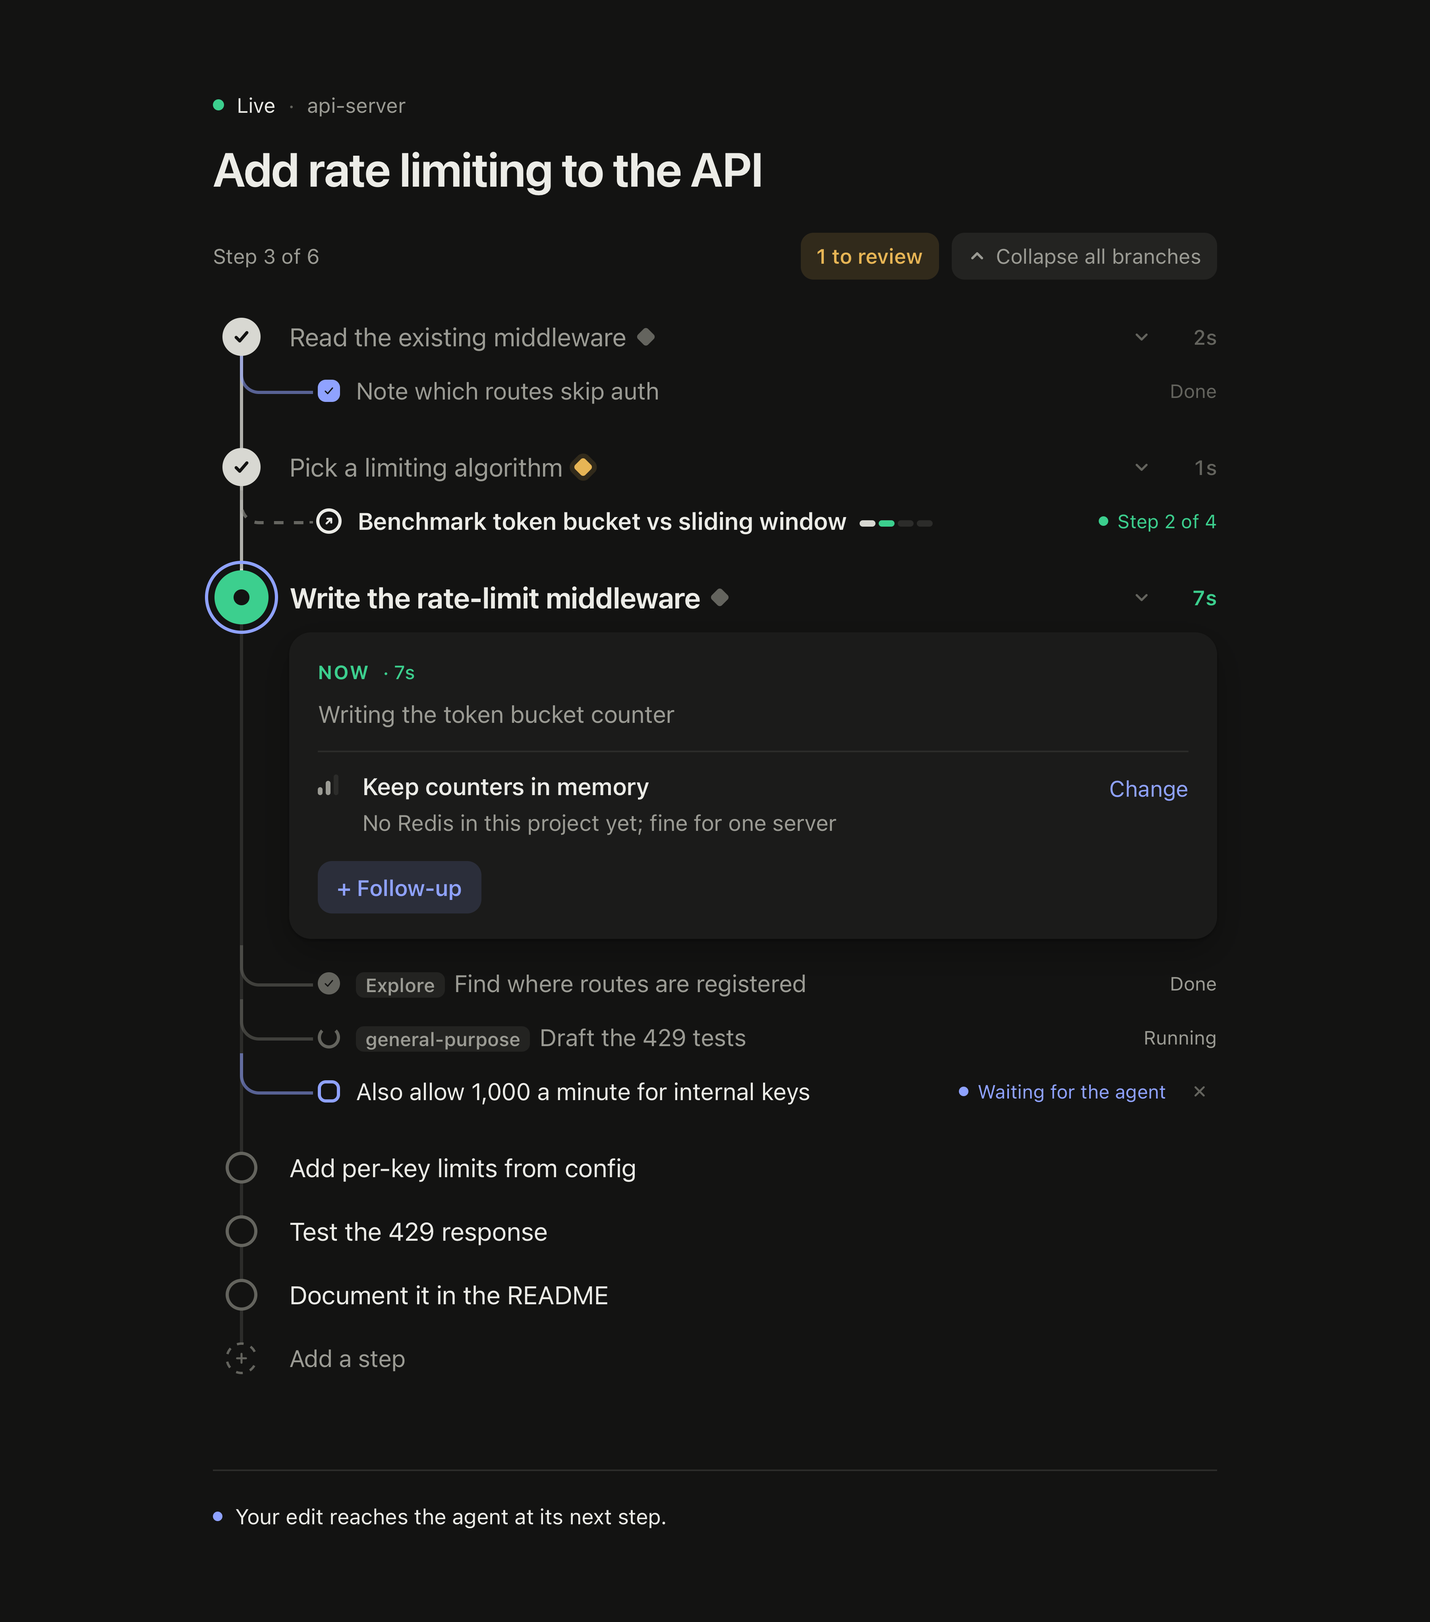
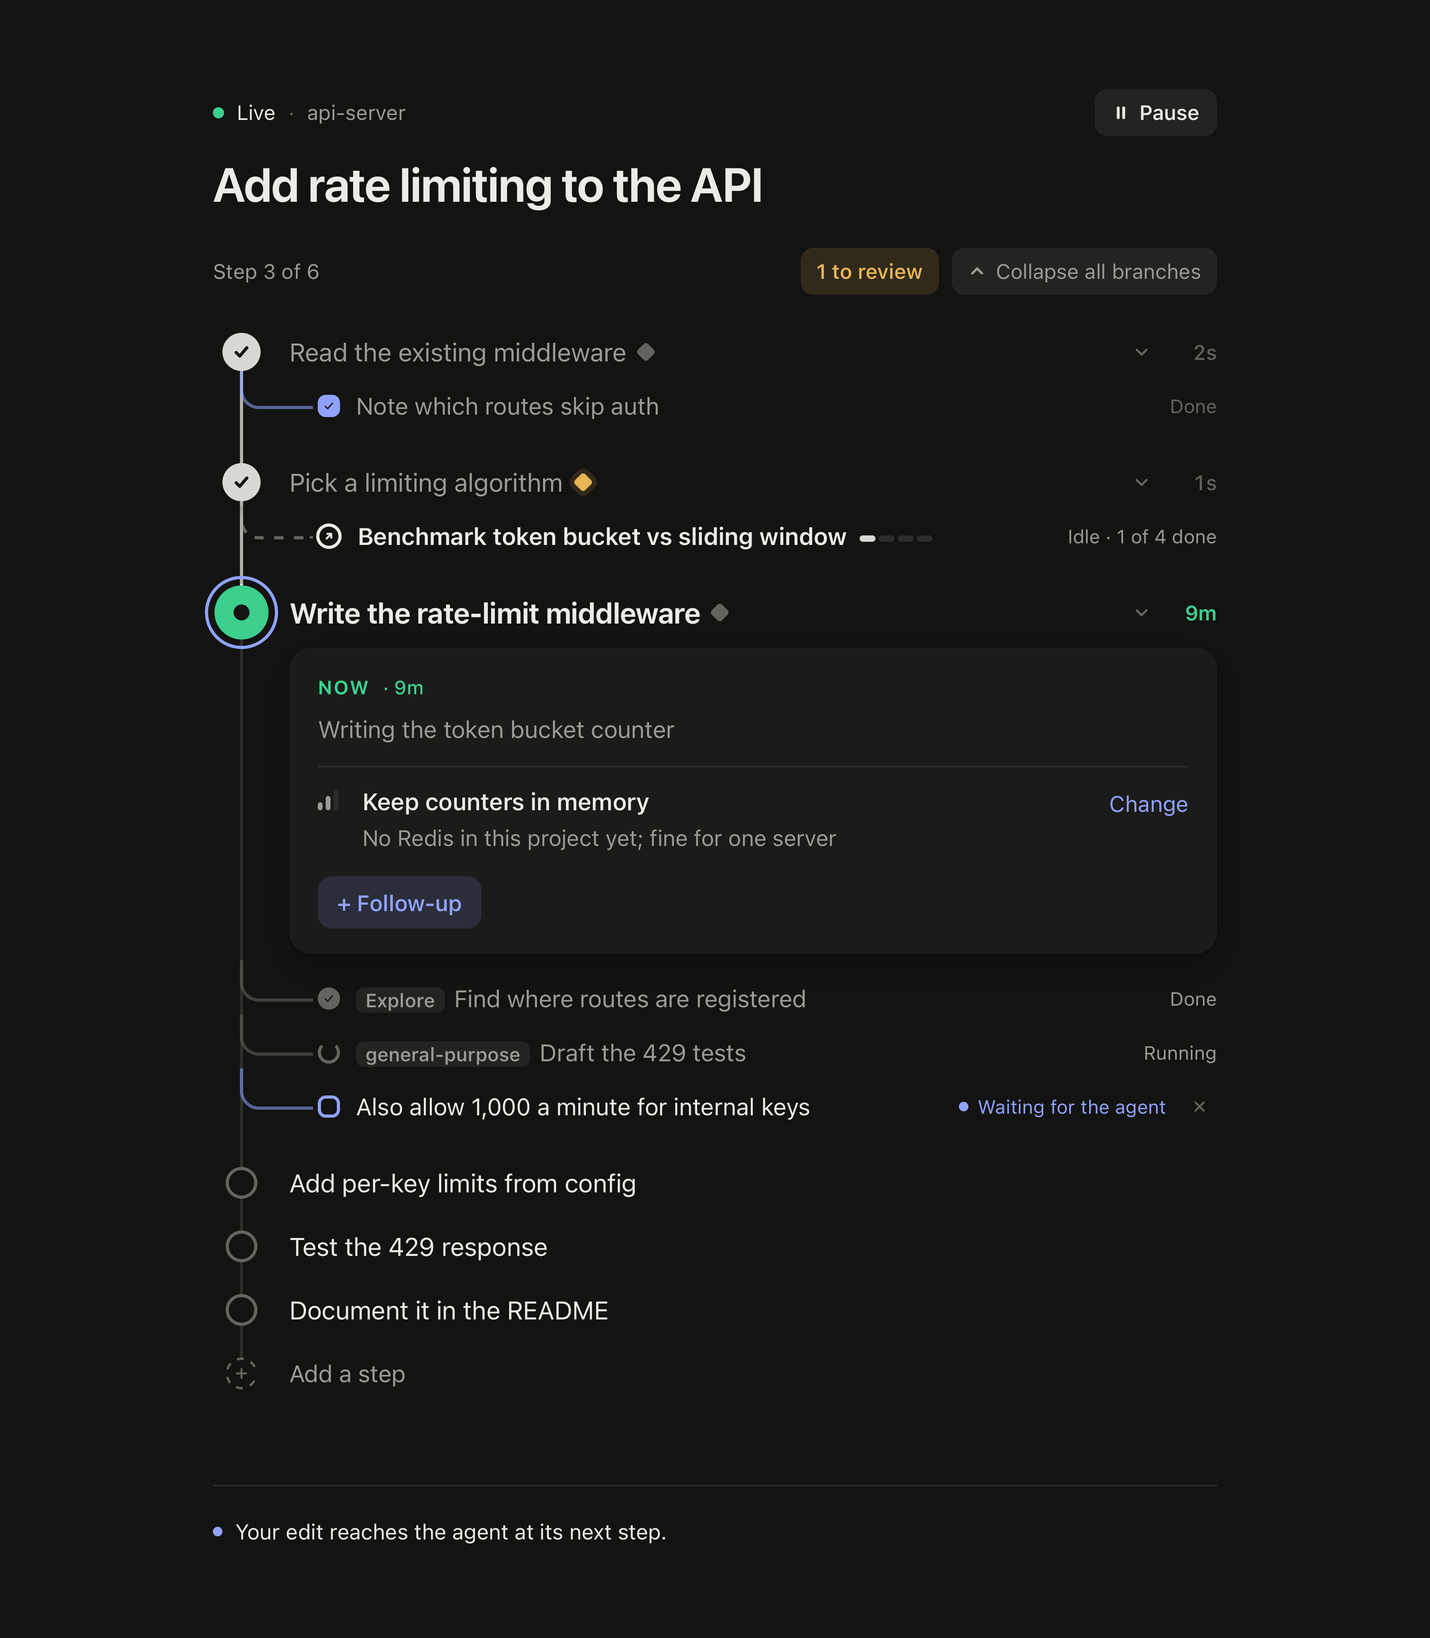
Add Pause and Resume to the status page
Pause tells the agent to stop at its next step and blocks its tools
(a PreToolUse gate that only checks a local file). While paused, edits
wait. Resume wakes the stopped agent through the existing Stop-hook
wait, with any edits made meanwhile. Typing to Claude also lifts a
pause.

diff --git a/src/page.html b/src/page.html
@@ -52,6 +52,16 @@ main svg { width: 16px; height: 16px; flex: none; }
 .live .dot::after { content: ""; position: absolute; inset: -4px; border-radius: 50%; border: 1.5px solid var(--live); opacity: 0; animation: ring 2.4s ease-out infinite; }
 .live .state { color: var(--text); }
 .sep { color: var(--faint); }
+.paused .dot { background: var(--review-mark); }
+.paused .state { color: var(--text); }
+.pausing .dot { background: var(--review-mark); animation: breathe 1.6s ease-in-out infinite; }
+.pausebtn { margin-left: auto; display: inline-flex; align-items: center; gap: 6px; padding: 5px 11px; border-radius: 8px; background: var(--chip); color: var(--text); font-size: 13px; font-weight: 550; }
+.pausebtn:hover { background: var(--hover); }
+.pausebtn svg { width: 11px; height: 11px; }
+.pausebtn.resume { background: var(--accent); color: #fff; }
+.pausebtn.resume:hover { background: var(--accent); filter: brightness(1.08); }
+:root[data-theme="dark"] .pausebtn.resume { color: #10131f; }
+@media (prefers-color-scheme: dark) { :root:not([data-theme="light"]) .pausebtn.resume { color: #10131f; } }
 .parent { display: inline-flex; align-items: center; gap: 6px; color: var(--muted); font-size: 13px; margin-bottom: 10px; }
 .parent:hover { color: var(--text); }
 .parent svg { width: 12px; height: 12px; }
@@ -98,6 +108,7 @@ h1 { margin: 12px 0 0; font-size: 30px; line-height: 1.2; font-weight: 640; lett
 .vend { margin-left: auto; display: flex; align-items: center; gap: 6px; flex: none; }
 .vtime { color: var(--live); font-size: 13px; font-weight: 600; min-width: 28px; text-align: right; font-variant-numeric: tabular-nums; }
 .vtime.dim { color: var(--faint); font-weight: 500; }
+.vtime.held, .kicker.now.held { color: var(--review); }
 .icon { width: 28px; height: 28px; display: grid; place-items: center; border-radius: 8px; color: var(--faint); touch-action: none; }
 .icon:hover { color: var(--text); background: var(--hover); }
 .handle { cursor: grab; }
@@ -295,6 +306,8 @@ footer svg { width: 14px; height: 14px; }
   const ICON = {
     grip: () => svg(dots),
     x: () => svg('<path d="M4.5 4.5l7 7M11.5 4.5l-7 7"/>'),
+    pause: () => svg('<path d="M5.5 3.5v9M10.5 3.5v9"/>', 2.6),
+    play: () => svg('<path d="M5 3.2l8 4.8-8 4.8z" fill="currentColor"/>', 1.2),
     plus: () => svg('<path d="M8 3.5v9M3.5 8h9"/>', 2),
     check: () => svg('<path d="M3.5 8.5l3 3 6-7"/>'),
     boldCheck: () => svg('<path d="M3.5 8.5l3 3 6-7"/>', 2.6),
@@ -338,7 +351,7 @@ footer svg { width: 14px; height: 14px; }
   function plan() {
     const next = state.next || [];
     const working = state.status === 'working';
-    const current = working && next.length ? next[0] : null;
+    const current = (working || state.pause) && next.length ? next[0] : null; // a paused step is still the current one
     return { current, upcoming: current ? next.slice(1) : next, done: state.done || [], working };
   }
 
@@ -386,8 +399,9 @@ footer svg { width: 14px; height: 14px; }
   function statusLabel() {
     if (!connected) return 'Reconnecting';
     if (!state) return 'Waiting';
-    if (state.status === 'working') return 'Live';
     if (state.status === 'ended') return 'Session ended';
+    if (state.pause) return state.pause.state === 'paused' ? 'Paused' : 'Pausing after this step…';
+    if (state.status === 'working') return 'Live';
     return 'Idle';
   }
 
@@ -399,14 +413,28 @@ footer svg { width: 14px; height: 14px; }
   }
 
   function header() {
-    const live = connected && state.status === 'working';
+    const pause = connected && state.pause;
+    const live = connected && !pause && state.status === 'working';
     const project = (state.cwd || '').split('/').filter(Boolean).pop();
-    const meta = h('div', { class: 'meta' + (live ? ' live' : '') },
+    const meta = h('div', { class: 'meta' + (live ? ' live' : pause ? (pause.state === 'paused' ? ' paused' : ' pausing') : '') },
       h('span', { class: 'dot' }), h('span', { class: 'state' }, statusLabel()),
-      project && h('span', { class: 'sep' }, '·'), project && h('span', {}, project));
+      project && h('span', { class: 'sep' }, '·'), project && h('span', {}, project),
+      pauseButton());
     const parent = state.parent && h('button', { class: 'parent', onclick: () => goTo(state.parent.id) },
       ICON.back(), `Started from ${state.parent.title || 'another session'}`);
     return { parent, meta };
+  }
+
+  // Pause stops the agent after its current step; Resume wakes it where it left off.
+  function pauseButton() {
+    if (!connected || state.status === 'ended') return null;
+    const act = path => e => { const btn = e.currentTarget; btn.disabled = true; post(path, {}).catch(() => { btn.disabled = false; }); };
+    if (state.pause) {
+      const done = state.pause.state === 'paused';
+      return h('button', { class: 'pausebtn resume', onclick: act('/api/user/resume') }, ICON.play(), done ? 'Resume' : 'Keep going');
+    }
+    if (state.status !== 'working') return null;
+    return h('button', { class: 'pausebtn', title: 'Stop after the current step', onclick: act('/api/user/pause') }, ICON.pause(), 'Pause');
   }
 
   function page() {
@@ -440,6 +468,7 @@ footer svg { width: 14px; height: 14px; }
     const total = m.done.length + (state.next || []).length;
     let summary;
     if (state.status === 'ended') summary = `Session ended · ${m.done.length} of ${total} done`;
+    else if (state.pause && state.pause.state === 'paused') summary = total ? `Paused at step ${Math.min(m.done.length + 1, total)} of ${total}` : 'Paused';
     else if (m.current) summary = `Step ${m.done.length + 1} of ${total}`;
     else if (total && m.upcoming.length) summary = `Waiting for you · ${m.done.length} of ${total} done`;
     else if (total) summary = `All ${plural(total, 'step')} done`;
@@ -487,7 +516,7 @@ footer svg { width: 14px; height: 14px; }
     const live = kind === 'now' && state.status === 'working' && connected;
     const editing = ui.editingStep === step.id;
     let time = h('span', { class: 'vtime' });
-    if (kind === 'now' && state.stepStartedAt) time = h('span', { class: 'vtime since', 'data-at': state.stepStartedAt }, since(state.stepStartedAt));
+    if (kind === 'now' && state.stepStartedAt) time = h('span', { class: 'vtime since' + (state.pause ? ' held' : ''), 'data-at': state.stepStartedAt }, since(state.stepStartedAt));
     if (kind === 'done' && step.took != null) time = h('span', { class: 'vtime dim' }, dur(step.took));
     const li = h('li', { class: `vrow ${kind}${open ? ' open' : ''}${kind === 'next' ? ' step' : ''}`, 'data-id': step.id },
       h('button', { class: `vdot ${kind}${live ? ' live' : ''}${step.edited ? ' edited' : ''}`, 'aria-expanded': String(open), 'aria-label': `${kind === 'done' ? 'Done' : kind === 'now' ? 'Now' : 'Next'}: ${step.text}`, onclick: toggleOpen },
@@ -520,7 +549,7 @@ footer svg { width: 14px; height: 14px; }
   function card(step, kind, decs, m) {
     const n = state.now || {};
     let kicker;
-    if (kind === 'now') kicker = h('div', { class: 'kicker now' }, state.status === 'working' ? 'Now' : 'Paused', state.stepStartedAt && h('span', { class: 't since', 'data-at': state.stepStartedAt }, '· ' + since(state.stepStartedAt)));
+    if (kind === 'now') kicker = h('div', { class: 'kicker now' + (state.pause ? ' held' : '') }, state.pause ? 'Paused' : state.status === 'working' ? 'Now' : 'Idle', state.stepStartedAt && h('span', { class: 't since', 'data-at': state.stepStartedAt }, '· ' + since(state.stepStartedAt)));
     else if (kind === 'done') kicker = h('div', { class: 'kicker' }, 'Done', h('span', { class: 't' }, step.took != null ? `· took ${dur(step.took)}` : `· ${ago(step.at)}${ago(step.at) === 'just now' ? '' : ' ago'}`));
     else kicker = h('div', { class: 'kicker' }, 'Up next', step.edited && h('span', { class: 't' }, '· edited by you'));
     const activity = kind === 'now' && n.text && !sameStep(n.text, step.text) && step.id !== '_now' ? n.text : null;
@@ -787,6 +816,7 @@ footer svg { width: 14px; height: 14px; }
   function footer() {
     const e = state.edits || {};
     if (state.status === 'ended') return h('footer', {}, 'This session has ended. Edits won’t reach it.');
+    if (state.pause) return h('footer', e.state === 'waiting' ? { class: 'waiting' } : {}, e.state === 'waiting' ? 'Paused. Your edit reaches the agent when you resume.' : 'Paused. Edits reach the agent when you resume.');
     if (e.state === 'waiting') return h('footer', { class: 'waiting' }, h('span', { class: 'pulse' }), 'Your edit reaches the agent at its next step.');
     if (e.state === 'received') return h('footer', { class: 'received' }, ICON.check(), 'The agent has your edit.');
     return h('footer', {}, 'Edits reach the agent at its next step.');

diff --git a/src/server.js b/src/server.js
@@ -10,7 +10,9 @@ const { HOME, PORT, HOST, APP, token } = require('./client');
 
 const TOKEN = token();
 const SESSIONS_DIR = path.join(HOME, 'sessions');
+const PAUSED_DIR = path.join(HOME, 'paused');
 fs.mkdirSync(SESSIONS_DIR, { recursive: true, mode: 0o700 });
+fs.mkdirSync(PAUSED_DIR, { recursive: true, mode: 0o700 });
 const PAGE = path.join(__dirname, 'page.html');
 const WEEK = 7 * 24 * 3600 * 1000;
 
@@ -21,6 +23,7 @@ const subscribers = new Map(); // session id or '*' (latest) -> Set<res>
 const waiters = new Map(); // session id -> res (a Stop hook waiting to wake the idle agent)
 let lastRequest = Date.now();
 
+const safeName = id => String(id).replace(/[^a-zA-Z0-9_-]/g, '_');
 let seq = 0;
 const newId = p => p + Date.now().toString(36) + (seq++).toString(36);
 
@@ -41,7 +44,6 @@ function save(s) {
     fs.writeFile(path.join(SESSIONS_DIR, safeName(s.id) + '.json'), JSON.stringify(s), { mode: 0o600 }, () => {});
   }, 250));
 }
-const safeName = id => String(id).replace(/[^a-zA-Z0-9_-]/g, '_');
 
 // ---------- state ----------
 
@@ -56,6 +58,8 @@ function blank(id) {
     edits: { state: 'none', at: 0 },
     shared: false,
     earlier: [],
+    pause: null, // { state: 'asked' | 'told' | 'paused', at, idle } while the user has paused the task
+    resume: false, // tell the agent it was resumed, with the next edits
   };
 }
 function get(id) {
@@ -74,6 +78,9 @@ function migrate(s) {
   s.pending.followups = s.pending.followups || [];
   for (const d of s.done) if (!d.id) d.id = newId('n');
   if (s.now) delete s.now.file; // file names are no longer shown
+  if (s.pause === undefined) s.pause = null;
+  s.resume = !!s.resume;
+  gate(s);
 }
 const hasPending = s => !!(s.pending.plan || s.pending.overrides.length || s.pending.followups.length);
 const currentStepId = s => (s.next[0] && s.next[0].id) || (s.done.length ? s.done[s.done.length - 1].id : null);
@@ -84,7 +91,7 @@ function latest() {
 }
 function view(s) {
   if (!s) return null;
-  const { pending, agentNext, pid, ...rest } = s;
+  const { pending, agentNext, pid, resume, ...rest } = s;
   rest.children = s.children.map(c => {
     const x = findChild(c);
     return x ? { ...c, id: x.id, title: x.title, status: x.status, done: x.done.length, total: x.done.length + x.next.length }
@@ -150,6 +157,32 @@ function takeEdits(s) {
   s.edits = { state: 'received', at: Date.now() };
   changed(s);
   return lines.join('\n');
+}
+
+const PAUSE_MESSAGE = 'The user paused this task on the status page. Stop here: make no more tool calls, and end your turn with one short line saying where you paused. You will be resumed later.';
+const RESUME_MESSAGE = 'The user resumed this task on the status page. Carry on from where you paused.';
+
+// What the agent should hear next. While paused, only the pause itself; edits wait for the resume.
+function takeFor(s, { stopping = false, prompt = false } = {}) {
+  if (prompt && (s.pause || s.resume)) { s.pause = null; s.resume = false; gate(s); changed(s); } // typing in Claude Code resumes
+  if (s.pause) {
+    if (stopping) { s.pause.state = 'paused'; changed(s); return null; }
+    if (s.pause.state !== 'asked') return null;
+    s.pause.state = 'told';
+    changed(s);
+    return PAUSE_MESSAGE;
+  }
+  const edits = takeEdits(s);
+  if (!s.resume) return edits;
+  s.resume = false;
+  changed(s);
+  return edits ? `${RESUME_MESSAGE}\n\n${edits}` : RESUME_MESSAGE;
+}
+
+// A file per paused session, so the PreToolUse gate can check it without a network call.
+function gate(s) {
+  const file = path.join(PAUSED_DIR, safeName(s.id));
+  try { s.pause ? fs.writeFileSync(file, '', { mode: 0o600 }) : fs.rmSync(file, { force: true }); } catch {}
 }
 
 function whereFollowup(s, f) {
@@ -336,11 +369,28 @@ function userRemoveFollowup(s, id) {
   changed(s, { touch: true });
 }
 
+function userPause(s) {
+  if (s.pause || s.status === 'ended') return;
+  const idle = s.status !== 'working';
+  s.pause = { state: idle ? 'paused' : 'asked', at: Date.now(), idle };
+  s.resume = false;
+  gate(s);
+  changed(s, { touch: true });
+}
+function userResume(s) {
+  if (!s.pause) return;
+  s.resume = !s.pause.idle; // it stopped because of the pause: tell it to carry on
+  s.pause = null;
+  gate(s);
+  changed(s, { touch: true });
+  wakeIfIdle(s);
+}
+
 // When the agent has stopped, a Stop hook may be waiting on us; hand it the edits so it wakes the agent.
 function wakeIfIdle(s) {
   const w = waiters.get(s.id);
-  if (!w || s.status === 'working') return;
-  const message = takeEdits(s);
+  if (!w || s.status === 'working' || s.pause) return;
+  const message = takeFor(s);
   if (!message) return;
   waiters.delete(s.id);
   s.status = 'working';
@@ -360,6 +410,7 @@ setInterval(() => {
       if (e.code === 'ESRCH') {
         s.status = 'ended';
         for (const h of s.helpers) if (h.state === 'running') h.state = 'done';
+        s.pause = null; s.resume = false; gate(s);
         releaseWaiter(s.id); changed(s);
       }
     }
@@ -429,8 +480,11 @@ const server = http.createServer(async (req, res) => {
       // Long-poll used by the Stop hook: resolves with the user's edits, or null when no longer needed.
       const s = get(url.searchParams.get('s'));
       releaseWaiter(s.id);
-      const message = takeEdits(s);
-      if (message) return send(res, 200, { message });
+      if (s.pause) { if (s.pause.state !== 'paused') { s.pause.state = 'paused'; changed(s); } }
+      else {
+        const message = takeFor(s);
+        if (message) return send(res, 200, { message });
+      }
       waiters.set(s.id, res);
       req.on('close', () => { if (waiters.get(s.id) === res) waiters.delete(s.id); });
       return;
@@ -489,7 +543,13 @@ const server = http.createServer(async (req, res) => {
         changed(s);
         return send(res, 200, { ok: true });
       case '/api/take':
-        return send(res, 200, { message: takeEdits(s) });
+        return send(res, 200, { message: takeFor(s, { stopping: !!body.stopping, prompt: !!body.prompt }) });
+      case '/api/user/pause':
+        userPause(s);
+        return send(res, 200, view(s));
+      case '/api/user/resume':
+        userResume(s);
+        return send(res, 200, view(s));
       case '/api/agent/plan':
         return send(res, 200, agentUpdatePlan(s, body));
       case '/api/agent/now':

diff --git a/src/hook.js b/src/hook.js
@@ -3,7 +3,7 @@
 // hand the user's page edits to the running agent between steps.
 // A hook must never break the user's session: every failure exits 0 quietly.
 'use strict';
-const { request, ensureServer } = require('./client');
+const { request, ensureServer, HOME } = require('./client');
 
 const mode = process.argv[2];
 const OWN_TOOLS = /^mcp__plugin_status-page_status__/;
@@ -39,7 +39,7 @@ function ancestors() {
 const SESSION_IDS = /local_[0-9a-f]{8}-[0-9a-f]{4}-[0-9a-f]{4}-[0-9a-f]{4}-[0-9a-f]{12}/g;
 
 const print = obj => process.stdout.write(JSON.stringify(obj));
-const take = session => request('POST', '/api/take', { session }, 1500).then(r => r && r.message);
+const take = (session, extra) => request('POST', '/api/take', { session, ...extra }, 1500).then(r => r && r.message);
 
 async function main() {
   const input = raw ? JSON.parse(raw) : {};
@@ -62,6 +62,12 @@ async function main() {
       }
       return print({ hookSpecificOutput: { hookEventName: 'PreToolUse', permissionDecision: 'allow', permissionDecisionReason: 'Status page update' } });
 
+    case 'gate': { // while the user has paused the task, refuse every tool (a file check: no network, no delay)
+      const file = require('path').join(HOME, 'paused', String(session).replace(/[^a-zA-Z0-9_-]/g, '_'));
+      if (!require('fs').existsSync(file)) return;
+      return print({ hookSpecificOutput: { hookEventName: 'PreToolUse', permissionDecision: 'deny',
+        permissionDecisionReason: 'The user paused this task on the status page. Make no more tool calls: end your turn now with one short line saying where you paused. You will be resumed.' } });
+    }
     case 'pre': // async: the agent is working
       await request('POST', '/api/hook/activity', { session, status: 'working' }, 800);
       return;
@@ -90,12 +96,12 @@ async function main() {
       return;
     case 'prompt': {
       await request('POST', '/api/hook/activity', { session, status: 'working' }, 800).catch(() => {});
-      const message = await take(session);
+      const message = await take(session, { prompt: true }); // typing here also lifts a pause
       if (message) print({ hookSpecificOutput: { hookEventName: 'UserPromptSubmit', additionalContext: message } });
       return;
     }
-    case 'stop': { // about to finish: if the user just edited something, keep going
-      const message = await take(session);
+    case 'stop': { // about to finish: if the user just edited something, keep going (unless they paused)
+      const message = await take(session, { stopping: true });
       if (message) return print({ decision: 'block', reason: message });
       await request('POST', '/api/hook/activity', { session, status: 'idle' }, 800);
       return;

diff --git a/skills/keep-status/SKILL.md b/skills/keep-status/SKILL.md
@@ -25,6 +25,7 @@ Their edits reach you between steps as a message starting "Update from the user,
 
 - An edited **Next up** list is now the plan. Follow it in that order; don't re-add steps they removed.
 - A **follow-up** is something extra the user wants, attached to one step. On a finished step, go back and do it after your current step. On the current or an upcoming step, do it as part of that step. When it's done, call `followup_done` with its id.
+- If the page says the user **paused** the task, make no more tool calls and end your turn with one short line saying where you stopped. When you're resumed, carry on from there.
 - An **overridden decision** means do it their way. Undo or adjust work that depended on the old choice, record the new choice with `record_decision` and `supersedes` set to the old id, then call `update_plan`.
 - Say briefly in your next message to the user what you changed because of their edit.
 

diff --git a/README.md b/README.md
@@ -23,6 +23,7 @@ Give Claude any multi-step task. It shares a link to the page in its first updat
 - **Next up:** rename, reorder (drag or Move up/down), remove, or add steps.
 - **Follow-ups:** add one to any step, even a finished one, and it branches off the map as a blue square: waiting, then *agent has it*, then done.
 - **Helpers and side sessions:** subagents show as gray branches on the step that started them. Side sessions the agent starts show as linked branches with their own progress; click one to open its page.
+- **Pause and Resume:** Pause stops the agent at its next step (whatever it is running finishes first). While it's paused, your edits wait. Resume wakes it where it left off, edits included. Typing to Claude also resumes it.
 - **Earlier:** finished tasks from the same session, folded away.
 
 Your edits reach the agent between its steps. In an open session, they wake it up even after it has stopped.
